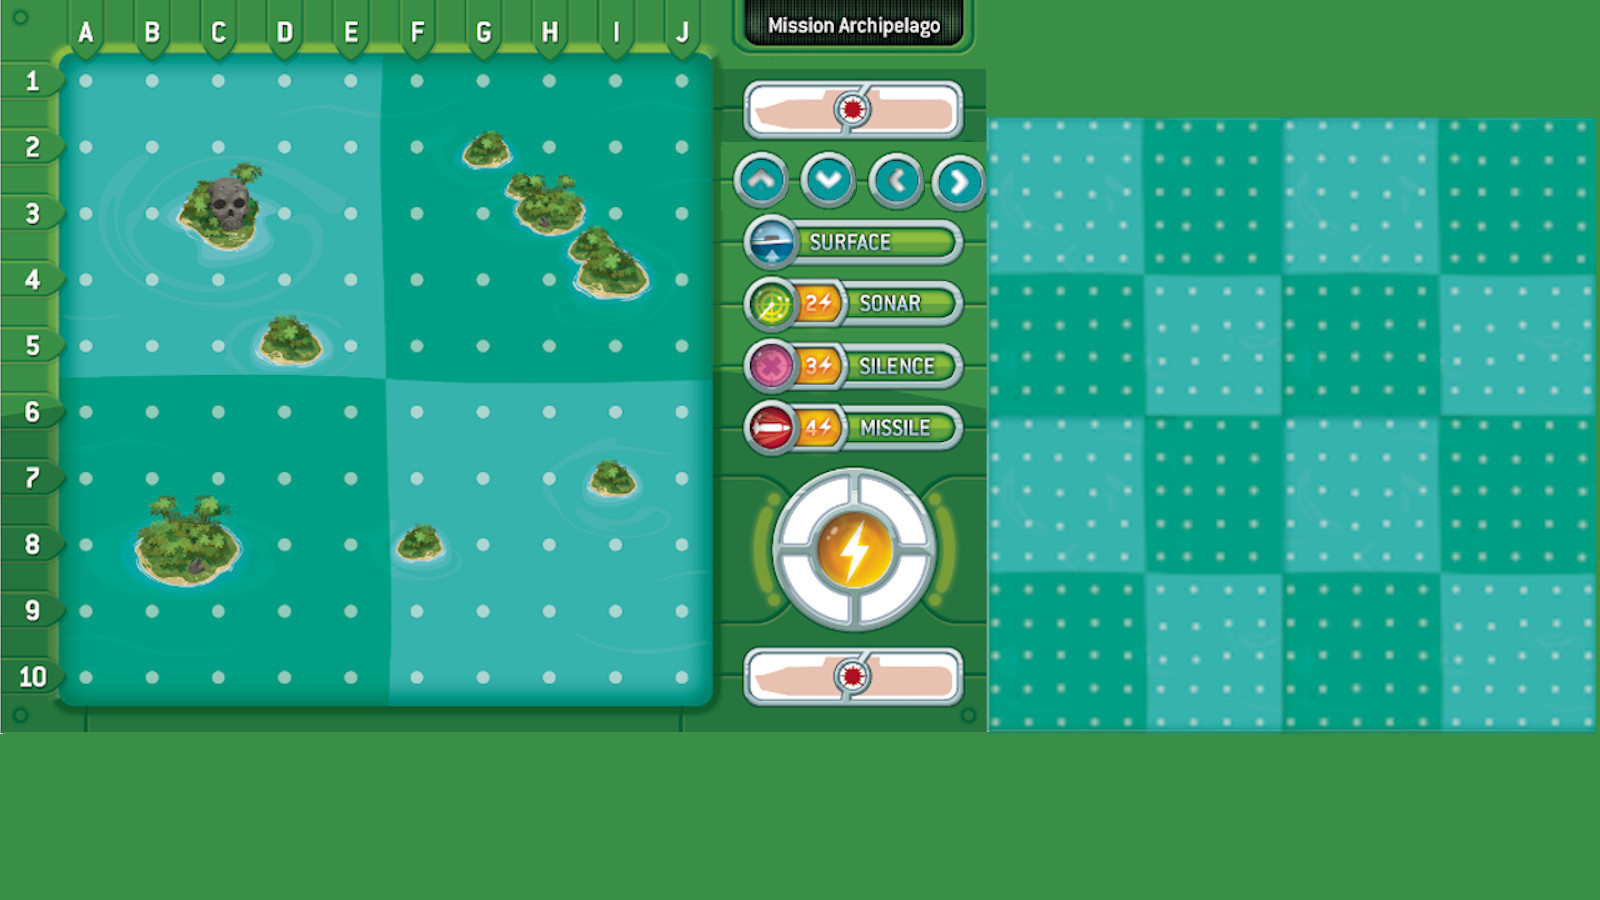
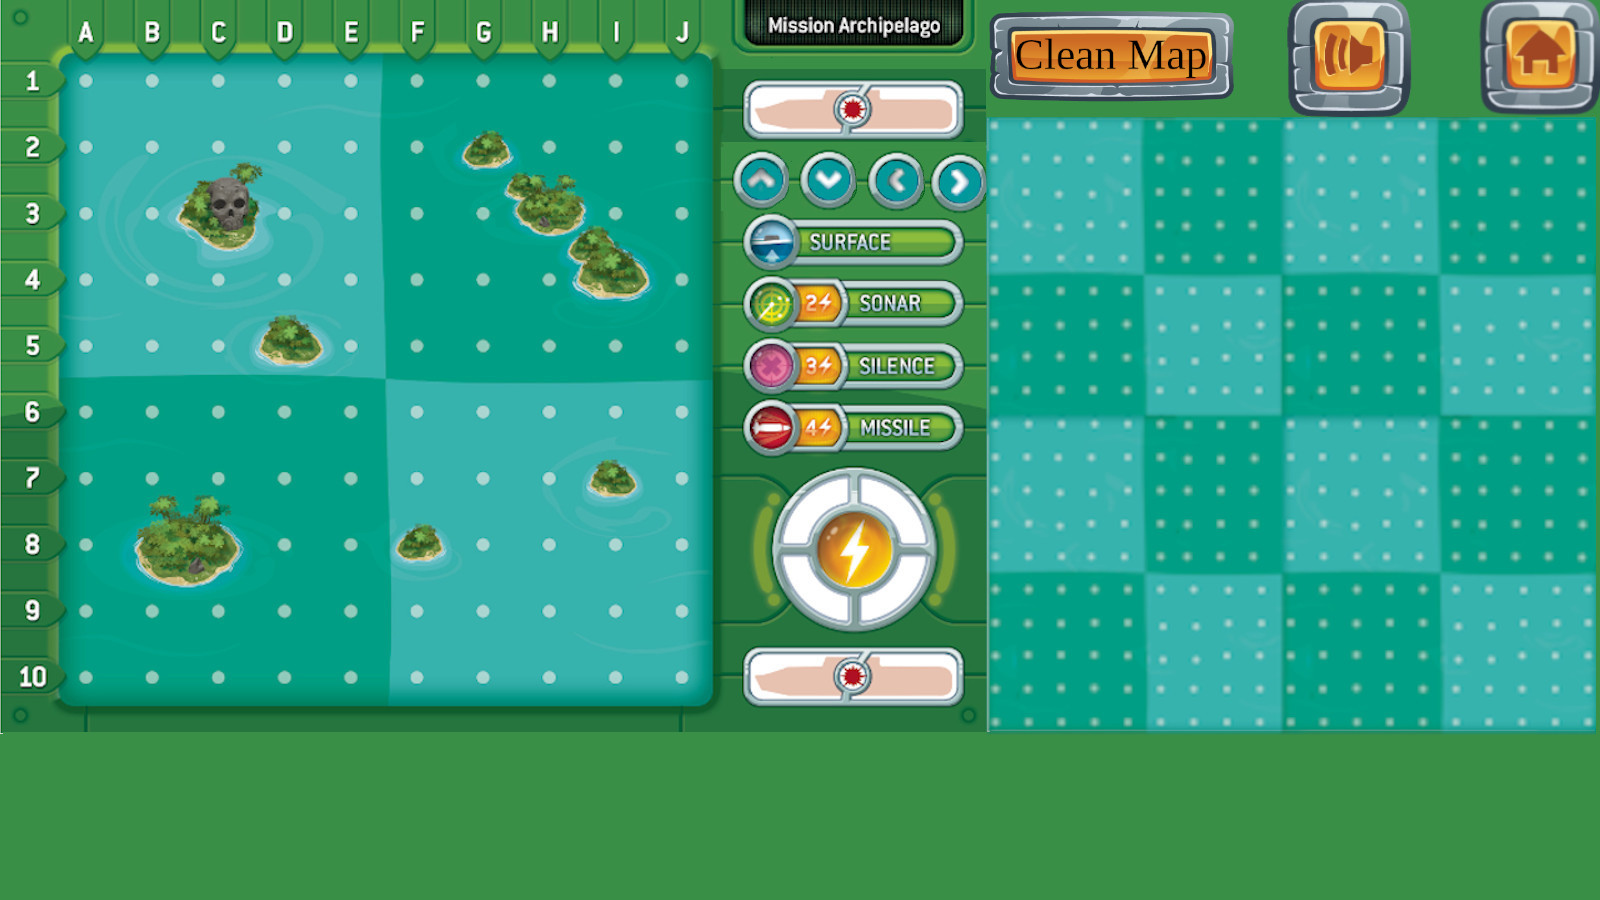
Focntion à faire dans le modèle et ajout de l'écriture de texte sur une fenêtre

Changed region(s): [[0.5938, 0.0, 1.0, 0.1556]]

diff --git a/model/main_model.h b/model/main_model.h
@@ -11,7 +11,17 @@
 #define PROJET_C_MAIN_MODEL_H
 
 #include "stdlib.h"
+#include "string.h"
 #define NMAX 10
+
+/**
+ * \enum Actif
+ * Permet de savoir qui est le joueur actif du tour
+ */
+ enum Actif{
+    J1, /**< Le joueur actif est le J1 */
+    J2  /**< Le joueur actif est le J2 */
+};
 
 /**
  * \struct Case
@@ -47,11 +57,11 @@ enum DIRECTION{
  * Permet de savoir quelle action le joueur fait
  */
 enum OPTION{
-    missile, /**< MISSILE*/
-    surface, /**< SURFACE*/
-    sonar, /**< SONAR*/
-    silence, /**< SILENCE*/
-    deplacemnt /**< DEPLACEMENT*/
+    MIS, /**< MISSILE*/
+    SURF, /**< SURFACE*/
+    SON, /**< SONAR*/
+    SIL, /**< SILENCE*/
+    DEPLCMNT /**< DEPLACEMENT*/
 };
 
 /**
@@ -82,6 +92,7 @@ typedef struct {
     CARTE * map;/**< Carte de jeu */
     JOUEUR * J1;/**<Structure du joueur 1  */
     JOUEUR * J2; /**<Structure du joueur 2 */
+    enum Actif actif;/**< Joueur actif du tour */
 }Playground;
 
 /**
@@ -179,6 +190,16 @@ void energie_up(JOUEUR *j);
 int deplacement(JOUEUR *j,CARTE * c,enum DIRECTION d);
 
 /**
+ * \fn char * result_deplacement(Playground *pg,enum Actif actif,int result)
+ * Fonction qui renvoie une chaîne de caractère contenant un message indiquant si le dpla
+ * @param pg Structure du modèle
+ * @param actif permet de savoir le joueur qui est en train de jouer
+ * @param result 0 ou 1 , en fonction du résultat de la fonction déplacement
+ * @return renvoie un pointeur vers une chaîne de caractère
+ */
+char * result_deplacement(Playground *pg,enum Actif actif,int result);
+
+/**
  * \fn void start_Sous_Marin(JOUEUR *j,int ligne,int colonne)
  * Positionne le sous-marin du joueur j à la position indiqué par la ligne et la colonne
  * et met à jour la carte
@@ -189,6 +210,71 @@ int deplacement(JOUEUR *j,CARTE * c,enum DIRECTION d);
  */
 void start_Sous_Marin(JOUEUR *j,int ligne,int colonne,CARTE * c);
 
+/**
+ * \fn char * sonar(Playground * pg,enum Actif actif)
+ * La fonction prend en paramètre le joueur actif et renvoie la position (soit ligne ou colonne de son adversaire)
+ * ex : L'ennemi se trouve dans la colonne B
+ * ex : L'ennemi se trouve dans la ligne 3
+ * @param pg Structure du modèle
+ * @param actif permet de savoir le joueur qui est en train de jouer
+ * @return renvoie un pointeur vers une chaîne de caractère
+ */
+char * sonar(Playground * pg,enum Actif actif);
+
+/**
+ * \fn int missile(Playground *pg,enum Actif actif)
+ * La fonction permet au joueur de tirer un missile sur une case choisie à l'avance.
+ * Si le tir ne touche rien, la fonction renvoie 0;
+ * Si le joueur actif se touche lui-même la fonction renvoie -1;
+ * Si le joueur touche l'adversaire la fonction renvoie 1;
+ *
+ * Si un tir touche l'un des deux joueurs ou les deux, chaque joueur perd 1 point de vie
+ * @param pg Structure du modèle
+ * @param actif permet de savoir le joueur qui est en train de jouer
+ * @param ligne Ligne choisie par le joueur
+ * @param colonne Colonne choisie par le joueur
+ * @return -1,0 ou 1
+ */
+int missile(Playground *pg,enum Actif actif,int ligne,int colonne);
+
+/**
+ * \fn char * result_missile(Playground *pg,enum Actif actif,int ligne,int colonne)
+ * La fonction renvoie un message qui indique si le joueur actif a réussi à toucher son adversaire.
+ * La fonction est basée sur le résultat de la fonction missile.
+ * Résultat possible :
+ * "Zut, vous n'avez rien touché"
+ * "Mince alors, vous vous êtes touché vous même!"
+ * "Bravo vous avez touché l'adversaire"
+ * @param pg Structure du modèle
+ * @param actif permet de savoir le joueur qui est en train de jouer
+ * @param ligne Ligne choisie par le joueur
+ * @param colonne Colonne choisie par le joueur
+ * @return renvoie un pointeur vers une chaîne de caractère
+ */
+char * result_missile(Playground *pg,enum Actif actif,int ligne,int colonne);
+
+/**
+ * \fn int enough_energie(Playground *pg,enum Actif actif,enum OPTION option)
+ * Fonction qui permet de savoir si le joueur actif a assez d'énergie pour effectuer l'action
+ * passée en paramètre.
+ * @param pg Structure du modèle
+ * @param actif permet de savoir le joueur qui est en train de jouer
+ * @param option Permet de savoir l'action que le jouer veut faire
+ * @return 1 si l'action peut être faite 0 sinon
+ */
+int enough_energie(Playground *pg,enum Actif actif,enum OPTION option);
+
+/**
+ * \fn void action(Playground *pg,enum Actif actif,enum OPTION option)
+ * Réalise l'option passé en paramètre en appelant les fonction précédentes
+ * ex : result missile
+ * Et retourne une chaîne de caractère qui correspond à l'action éffectuée
+ * @param pg
+ * @param actif
+ * @param option
+ * @return renvoie un pointeur vers une chaîne de caractère
+ */
+char * action(Playground *pg,enum Actif actif,enum OPTION option);
 
 //Création Carte
 

diff --git a/view/main_view.h b/view/main_view.h
@@ -14,6 +14,7 @@
 #include "SDL2/SDL.h"
 #include "SDL2/SDL_image.h"
 #include "SDL2/SDL_mixer.h"
+#include "SDL2/SDL_ttf.h"
 
 /**
  * \enum Window
@@ -71,7 +72,8 @@ typedef struct {
     SDL_Texture *cCredit;/** <Texture qui garde l'aperçu des crédits */
     SDL_Texture *cCarte; /** <Texture qui garde l'aperçu du choix des cartes */
     SDL_Rect  CCarte[4] ;/** < Tableau qui stocke l'emplacement des boutons du choix des cartes */
-    enum Window window;/** <Permet de savoir qu'elle est la fenêtre actuellement utilisée */
+    enum Window window;/** < Permet de savoir qu'elle est la fenêtre actuellement utilisée */
+    TTF_Font * ttf;/** < Structure qui permet de régler la police d'écriture des messages */
 
 }View_elements;
 
@@ -102,6 +104,13 @@ void free_view(View_elements * app);
  * @return EXIT_SUCCES si tout va bien, EXIT_FAILURE sinon.
  */
 int init_all_view(View_elements *app);
+
+/**
+ * \fn void init_font(View_elements *app)
+ * Initialise la police d'écriture et sa taille
+ * @param app Structure qui gère la vue
+ */
+void init_font(View_elements *app);
 
 
 // Fonctions pour le champ de bataille
@@ -156,6 +165,14 @@ int init_choix_carte(View_elements * app);
  * @param app Structure qui gère la vue
  */
 void show_choix_carte(View_elements *app);
+
+/**
+ * \fn void print_message(View_elements *app,char * message)
+ * Affiche le message passé en parmètre avec la typo initialisé dans la structure app. Le message est affiché dans l'interface utilisateur
+ * @param app Structure qui gère la vue
+ * @param message message à afficher
+ */
+void print_message(View_elements *app,char * message);
 
 
 // Fonctions pour le Menu

diff --git a/view/Battlefield.c b/view/Battlefield.c
@@ -54,7 +54,7 @@ int init_battlefield(View_elements * app,enum Carte c){
         return EXIT_FAILURE;
     }
     SDL_SetRenderTarget(app->rRenderer, app->VBattlefield->Battlefield_blank);
-    SDL_Rect rect ={0,0,1200,900};
+    SDL_Rect rect ={0,0,1600,900};
     SDL_RenderCopy(app->rRenderer, tmp, NULL, &rect);
     SDL_DestroyTexture(tmp);
     SDL_FreeSurface(surface);
@@ -130,4 +130,18 @@ void show_choix_carte(View_elements *app){
     SDL_RenderCopy(app->rRenderer,app->cCarte,NULL,NULL);
     SDL_RenderPresent(app->rRenderer);
     app->window=Choix_Carte;
+}
+
+void print_message(View_elements *app,char * message){
+    SDL_Texture * tmp=NULL;
+    SDL_Surface * surface=NULL;
+    SDL_Color color={0,0,0,255};
+    surface=TTF_RenderText_Solid(app->ttf,message,color);
+    tmp=SDL_CreateTextureFromSurface(app->rRenderer,surface);
+    SDL_SetRenderTarget(app->rRenderer, app->VBattlefield->Battlefield_current);
+    SDL_Rect rect ={800,800,100,100}; // zone où afficher le message
+    SDL_RenderCopy(app->rRenderer, tmp, NULL, &rect);
+    SDL_DestroyTexture(tmp);
+    SDL_FreeSurface(surface);
+    SDL_SetRenderTarget(app->rRenderer, NULL);
 }

diff --git a/view/main_view.c b/view/main_view.c
@@ -15,7 +15,15 @@ int init_view(View_elements * app) {
     int Resolution_x =1600;
     int Resolution_y=900;
     int statut = EXIT_FAILURE;
-    IMG_Init(IMG_INIT_JPG);
+    if (IMG_Init(IMG_INIT_JPG)==0){
+        fprintf(stderr, "Erreur IMG_Init : %s", SDL_GetError());
+        return statut;
+    }
+    if (TTF_Init()!=0){
+        fprintf(stderr, "Erreur TTF_Init : %s", SDL_GetError());
+        return statut;
+    }
+    init_font(app);
     app->VBattlefield=(malloc(sizeof(View_Battlefield)));
 
     if (0 != SDL_Init(SDL_INIT_VIDEO)) {
@@ -77,6 +85,7 @@ void free_view(View_elements *app){
     SDL_DestroyTexture(app->VBattlefield->Battlefield_current);
     SDL_DestroyTexture(app->VBattlefield->Battlefield_blank);
     IMG_Quit();
+    TTF_Quit();
     while (Mix_Init(0)){
         Mix_Quit();
     }
@@ -99,6 +108,10 @@ int init_all_view(View_elements *app){
     }
     init_rbutton(app);
     return EXIT_SUCCESS;
+}
+
+void init_font(View_elements * app){
+    app->ttf=TTF_OpenFont("Ressources/PermanentMarker-Regular.ttf",200);
 }
 
 
